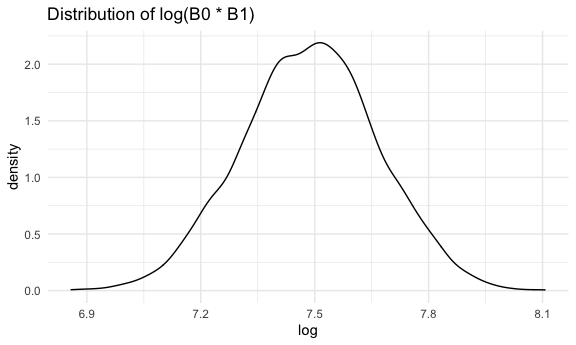
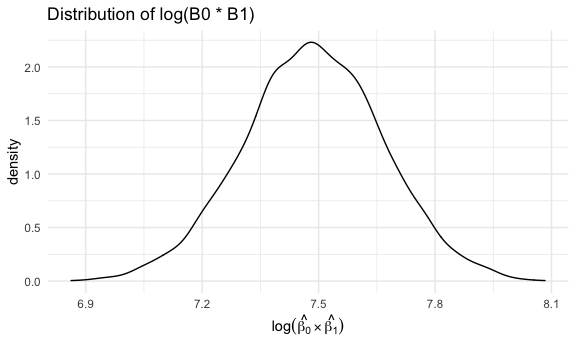
editing r code formatting for problem 2

diff --git a/p8105_hw6_rr3423.md b/p8105_hw6_rr3423.md
@@ -531,12 +531,13 @@ bootstrap_results =
 
 ### Plotting the distribution of estimates
 
-Looking at the distribution of log(B0 \* B1):
+Looking at the distribution of log (*β̂*<sub>0</sub> \* *β̂*<sub>1</sub>)
 
 ``` r
 bootstrap_results %>% 
   ggplot(aes(x = log)) + 
   geom_density() + 
+  xlab(expression(log(hat(beta[0]) %*% hat(beta[1])))) + 
   labs(
     title = "Distribution of log(B0 * B1)"
   )
@@ -544,23 +545,25 @@ bootstrap_results %>%
 
 <img src="p8105_hw6_rr3423_files/figure-gfm/log_plot-1.png" width="90%" />
 
-Looking at the distribution of R^2:
+Looking at the distribution of *r̂*<sup>2</sup>:
 
 ``` r
 bootstrap_results %>% 
   ggplot(aes(x = r.squared)) + 
   geom_density() + 
   labs(
-    title = "Distribution of R^2"
-  )
+    title = "Distribution of r^2" 
+  ) + 
+  xlab(expression(r^2))
 ```
 
 <img src="p8105_hw6_rr3423_files/figure-gfm/r_plot-1.png" width="90%" />
 
-### Getting the 95% confidence interval
+### Getting the 95% confidence intervals for the two quantities
 
 Identifying the 2.5% and 97.5% quantiles to provide a 95% confidence
-interval for the two quantities
+interval for log (*β̂*<sub>0</sub> \* *β̂*<sub>1</sub>) and
+*r̂*<sup>2</sup>
 
 ``` r
 bootstrap_results %>% 
@@ -580,5 +583,9 @@ bootstrap_results %>%
 
 | Quantity  | ci\_lower | ci\_upper |
 |:----------|----------:|----------:|
-| log       |     7.139 |     7.832 |
-| r.squared |     0.893 |     0.928 |
+| log       |     7.125 |     7.838 |
+| r.squared |     0.894 |     0.927 |
+
+The 95% confidence interval for log (*β̂*<sub>0</sub> \* *β̂*<sub>1</sub>)
+is (7.140, 7.845). The 95% confidence interval for *r̂*<sup>2</sup> is
+(0.894, 0.927).
